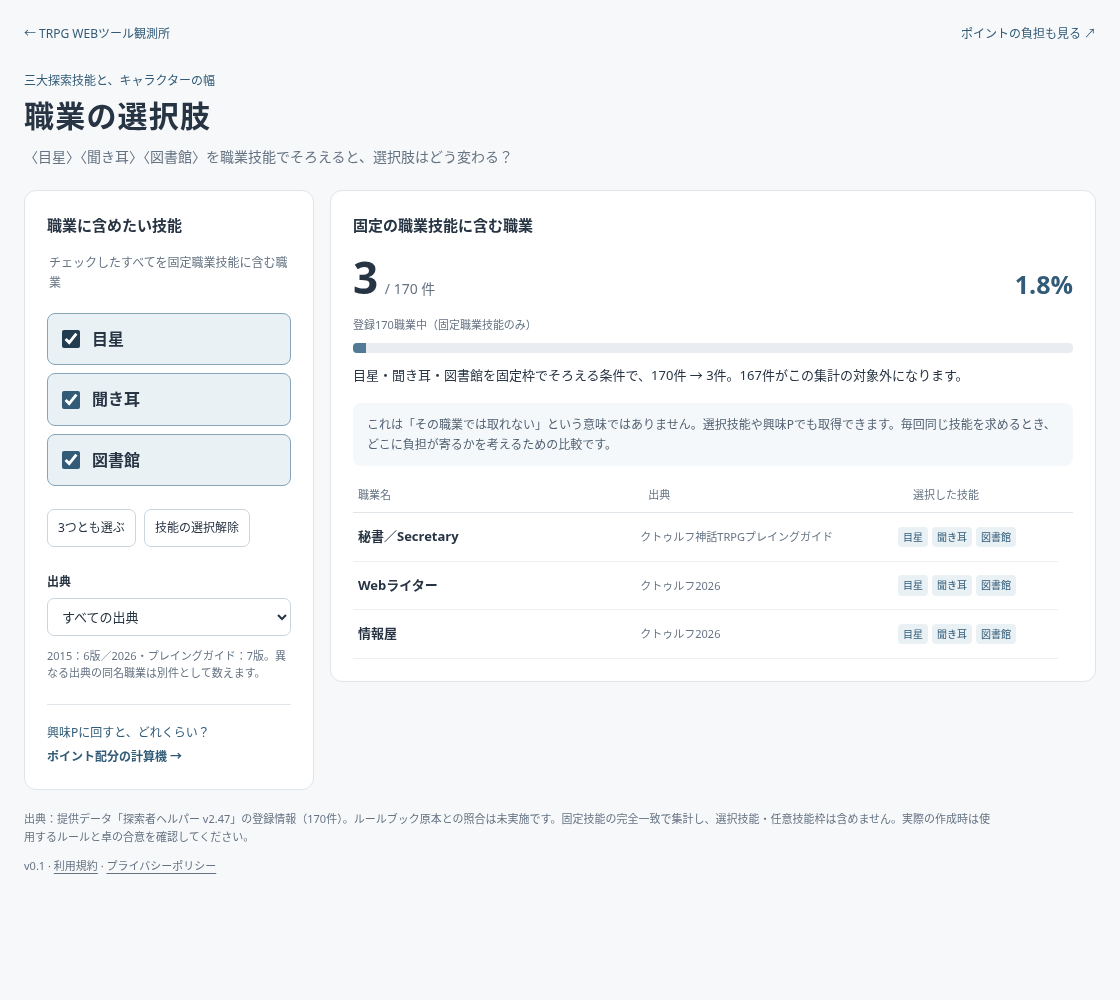
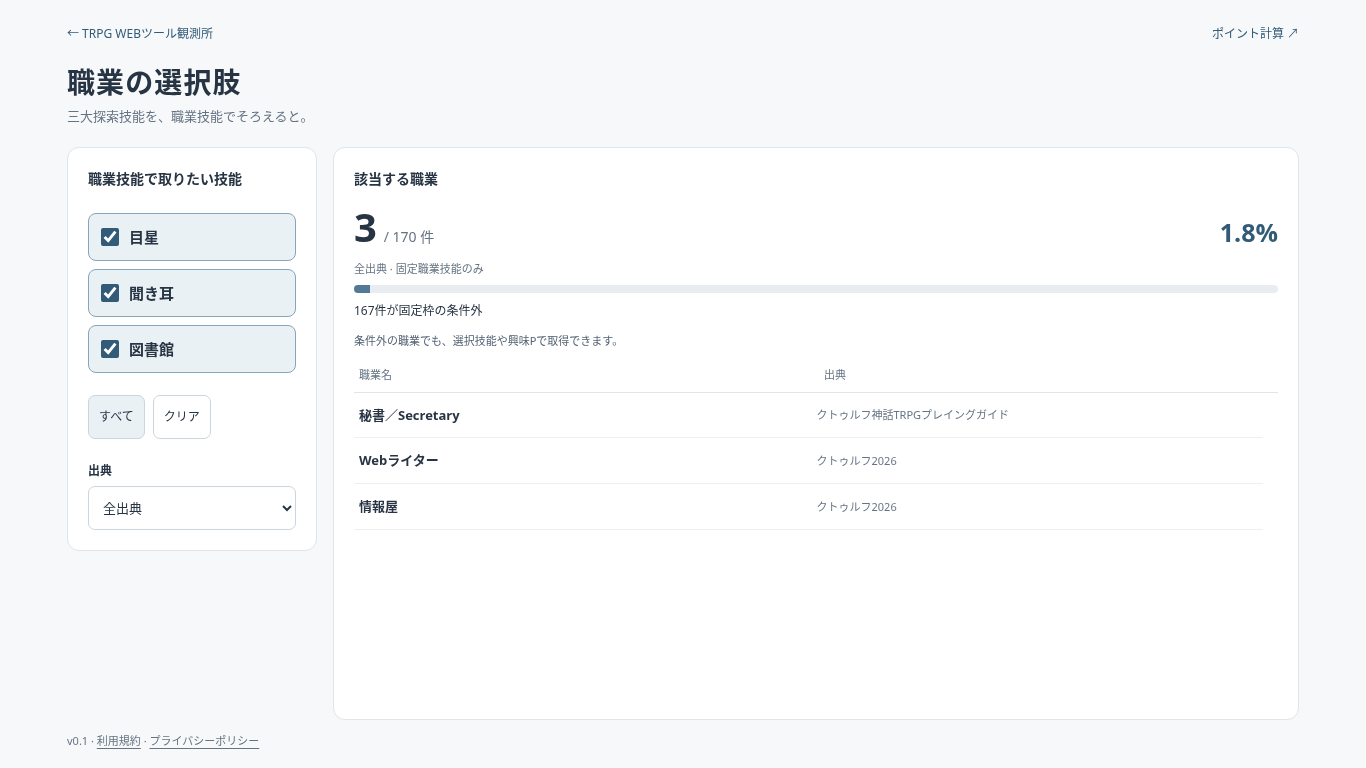
Simplify occupation filter labels and improve responsive layout

diff --git a/tools/three-skills-occupation-filter/style.css b/tools/three-skills-occupation-filter/style.css
@@ -1,3 +1,13 @@
-:root{color-scheme:light;--ink:#273443;--muted:#657383;--line:#dfe5e9;--accent:#315b77;--tint:#e9f1f5;--paper:#fff}
-*{box-sizing:border-box}body{margin:0;background:#f7f8fa;color:var(--ink);font:14px/1.65 system-ui,-apple-system,"Hiragino Kaku Gothic ProN","Noto Sans JP",sans-serif}main{max-width:1120px;margin:auto;padding:24px 24px 32px}a{color:var(--accent);text-underline-offset:3px}nav{display:flex;justify-content:space-between;gap:12px;font-size:12px}nav a{text-decoration:none}header{margin:27px 0 22px}.eyebrow{font-size:12px;color:var(--accent);margin:0 0 5px}h1{font-size:30px;letter-spacing:.04em;line-height:1.3;margin:0 0 10px}h2{font-size:15px;margin:0 0 16px}.lead{color:var(--muted);margin:0}.layout{display:grid;grid-template-columns:290px minmax(0,1fr);gap:16px;align-items:start}.panel{background:var(--paper);border:1px solid var(--line);border-radius:12px;padding:22px;min-width:0}fieldset{border:0;padding:0;margin:0}legend{font-size:12px;color:var(--muted);margin-bottom:12px}.skill{display:flex;align-items:center;gap:12px;padding:12px 14px;margin:8px 0;border:1px solid var(--line);border-radius:8px;font-size:16px;font-weight:650;cursor:pointer}.skill:has(input:checked){background:var(--tint);border-color:#85a5bb}.skill input{width:18px;height:18px;accent-color:var(--accent);margin:0}.actions{display:flex;gap:8px;flex-wrap:wrap;margin:15px 0 25px}button,select{font:inherit;color:var(--ink);background:#fff;border:1px solid #cbd5de;border-radius:7px;padding:8px 10px}button{cursor:pointer;font-size:12px}button:hover{background:var(--tint)}:focus-visible{outline:2px solid var(--accent);outline-offset:3px}.source-label{display:block;font-size:12px;font-weight:650;margin-bottom:6px}select{width:100%;min-width:0;font-size:13px}.small{font-size:11px;color:var(--muted);line-height:1.6}.calculator-link{display:block;border-top:1px solid var(--line);margin-top:22px;padding-top:18px;font-size:12px;text-decoration:none}.calculator-link span{display:block;font-weight:650;margin-top:4px}.count{display:flex;align-items:baseline;gap:8px;flex-wrap:wrap;margin:0}.count strong{font-size:44px;font-variant-numeric:tabular-nums;line-height:1.1;letter-spacing:-.03em}.count span{color:var(--muted)}.count b{margin-left:auto;font-size:25px;font-weight:550;color:var(--accent)}#scope-label{margin:10px 0}.ratio{height:10px;border-radius:4px;background:#e9edf1;overflow:hidden}#ratio-fill{height:100%;background:#527a96;width:0}#impact{font-size:13px;margin:12px 0 0}.context{font-size:12px;background:#f5f8fa;border-radius:8px;padding:12px 14px;margin:16px 0 20px;color:#536273}.list-header,.job{display:grid;grid-template-columns:minmax(0,1.1fr) minmax(0,1fr) 155px;gap:12px;align-items:center}.list-header{font-size:11px;color:var(--muted);padding:0 5px 8px;border-bottom:1px solid var(--line)}.job-list{max-height:460px;overflow:auto;scrollbar-gutter:stable}.job{padding:13px 5px;border-bottom:1px solid #edf0f2;font-size:13px}.job h3{margin:0;font-size:13px;font-weight:600;overflow-wrap:anywhere}.job-source{font-size:11px;color:var(--muted)}.tags{display:flex;flex-wrap:wrap;gap:4px}.tag{font-size:10px;border-radius:4px;padding:2px 5px;background:var(--tint);color:var(--accent)}.unselected{font-size:11px;color:var(--muted)}.empty{padding:30px 10px;font-size:13px}footer{margin-top:20px;font-size:11px;color:var(--muted);max-width:970px}footer a{color:inherit}#error{color:#963c35}
-@media(max-width:760px){main{padding:16px 14px 26px}header{margin:22px 0 18px}h1{font-size:26px}.layout{grid-template-columns:1fr}.panel{padding:18px}fieldset{display:flex;flex-wrap:wrap;gap:6px}legend{width:100%;margin-bottom:6px}.skill{font-size:14px;gap:7px;margin:0;padding:10px}.actions{margin:12px 0 18px}.calculator-link{margin-top:14px;padding-top:12px}.list-header{display:none}.job{grid-template-columns:1fr auto;gap:4px 10px;padding:12px 3px}.job-source{grid-row:2;grid-column:1/-1}.tags{grid-column:2;grid-row:1}.count strong{font-size:38px}.count b{font-size:23px}.job-list{max-height:440px}nav{font-size:11px}}
+:root{color-scheme:light;--ink:#273443;--muted:#657383;--line:#dfe5e9;--accent:#315b77;--tint:#e9f1f5}
+*{box-sizing:border-box}body{margin:0;background:#f7f8fa;color:var(--ink);font:14px/1.6 system-ui,-apple-system,"Hiragino Kaku Gothic ProN","Noto Sans JP",sans-serif}
+main{max-width:1280px;margin:auto;padding:18px 24px}a{color:var(--accent);text-underline-offset:3px}nav{display:flex;justify-content:space-between;gap:12px;font-size:12px}nav a{display:inline-flex;align-items:center;min-height:32px;text-decoration:none}header{margin:14px 0 20px}h1{font-size:28px;letter-spacing:.04em;line-height:1.3;margin:0 0 6px}h2{font-size:14px;margin:0 0 14px}.lead{color:var(--muted);margin:0;font-size:13px}
+.layout{display:grid;grid-template-columns:250px minmax(0,1fr);gap:16px;align-items:start}.panel{background:#fff;border:1px solid var(--line);border-radius:12px;padding:20px;min-width:0}fieldset{border:0;padding:0;margin:0;min-width:0}.sr-only{position:absolute;width:1px;height:1px;padding:0;margin:-1px;overflow:hidden;clip:rect(0,0,0,0);white-space:nowrap;border:0}
+.skill{display:flex;align-items:center;gap:10px;min-height:48px;padding:10px 12px;margin:8px 0;border:1px solid var(--line);border-radius:8px;font-size:15px;font-weight:650;cursor:pointer}.skill:has(input:checked){background:var(--tint);border-color:#85a5bb}.skill input{width:18px;height:18px;accent-color:var(--accent);margin:0;flex-shrink:0}.actions{display:flex;gap:8px;margin:14px 0 22px}
+button,select{font:inherit;color:var(--ink);background:#fff;border:1px solid #cbd5de;border-radius:7px;min-height:44px;padding:8px 10px}button{cursor:pointer;font-size:12px}button:hover{background:var(--tint)}:focus-visible{outline:2px solid var(--accent);outline-offset:3px}.source-label{display:block;font-size:12px;font-weight:650;margin-bottom:6px}select{width:100%;min-width:0;font-size:13px}.source-control{min-width:0}.small{font-size:11px;color:var(--muted);line-height:1.6}
+.count{display:flex;align-items:baseline;gap:8px;flex-wrap:wrap;margin:0}.count strong{font-size:40px;font-variant-numeric:tabular-nums;line-height:1.1;letter-spacing:-.03em}.count span{color:var(--muted)}.count b{margin-left:auto;font-size:25px;font-weight:550;color:var(--accent)}#scope-label{margin:8px 0}.ratio{height:8px;border-radius:4px;background:#e9edf1;overflow:hidden}#ratio-fill{height:100%;background:#527a96;width:0}#impact{font-size:12px;margin:8px 0 0}#impact:empty{display:none}.context{padding:0;margin:12px 0 16px;font-size:11px;color:#536273}
+.list-header,.job{display:grid;grid-template-columns:minmax(0,1fr) minmax(0,1fr);gap:16px;align-items:center}.list-header{flex-shrink:0;font-size:11px;color:var(--muted);padding:0 5px 8px;border-bottom:1px solid var(--line)}.job-list{max-height:460px;overflow:auto;scrollbar-gutter:stable}.job{padding:12px 5px;border-bottom:1px solid #edf0f2}.job h3{margin:0;font-size:13px;font-weight:600;overflow-wrap:anywhere}.job-source{font-size:11px;color:var(--muted);overflow-wrap:anywhere}.empty{padding:24px 8px;font-size:13px}
+footer{display:flex;justify-content:space-between;align-items:start;gap:16px;margin-top:12px;font-size:11px;color:var(--muted)}footer p{margin:0}footer details p{max-width:780px;margin-top:8px}footer summary{cursor:pointer;min-height:28px}footer a{color:inherit}#error{color:#963c35}
+/* Desktop: fixed controls and summary, with the list filling the remaining screen height. */
+@media(min-width:900px) and (min-height:600px){main{height:100svh;display:grid;grid-template-rows:auto auto minmax(0,1fr) auto}.layout{min-height:0;align-items:stretch}.filters{align-self:start}.results{min-height:0;display:flex;flex-direction:column}.results>:not(.job-list){flex-shrink:0}.job-list{min-height:0;max-height:none;flex:1}}
+/* Phones/tablets: compact horizontal controls and a single native page scroll. */
+@media(max-width:899px){main{max-width:760px;padding:10px 14px 20px}nav{font-size:11px}nav a{min-height:36px}header{margin:10px 0 14px}h1{font-size:24px}.lead{font-size:12px}.layout{grid-template-columns:1fr;gap:12px}.panel{padding:14px}.filters{display:grid;grid-template-columns:1fr 1fr;gap:10px 8px}.filters h2{grid-column:1/-1;margin:0;font-size:13px}fieldset{grid-column:1/-1;display:grid;grid-template-columns:repeat(3,minmax(0,1fr));gap:8px}.skill{justify-content:center;gap:6px;margin:0;padding:10px 4px;min-height:46px;font-size:14px;white-space:nowrap}.actions{margin:0;gap:6px}.actions button{flex:1;padding:8px 4px}.source-control{display:flex;align-items:stretch}.source-label{position:absolute;width:1px;height:1px;overflow:hidden;clip:rect(0,0,0,0);white-space:nowrap}select{font-size:16px;padding:8px}.results h2{margin-bottom:10px}.count strong{font-size:36px}.count b{font-size:23px}.context{margin:10px 0 12px}.list-header{display:none}.job-list{max-height:none;overflow:visible;scrollbar-gutter:auto}.job{grid-template-columns:1fr;gap:3px;padding:12px 2px}.job h3{font-size:14px}footer{flex-wrap:wrap;gap:6px 14px}}

diff --git a/tools/three-skills-occupation-filter/index.html b/tools/three-skills-occupation-filter/index.html
@@ -13,49 +13,47 @@
 </head>
 <body>
 <main>
-  <nav><a href="../../">← TRPG WEBツール観測所</a><a href="../trpg-three-skills-calculator/">ポイントの負担も見る ↗</a></nav>
+  <nav><a href="../../">← TRPG WEBツール観測所</a><a href="../trpg-three-skills-calculator/">ポイント計算 ↗</a></nav>
   <header>
-    <p class="eyebrow">三大探索技能と、キャラクターの幅</p>
     <h1>職業の選択肢</h1>
-    <p class="lead">〈目星〉〈聞き耳〉〈図書館〉を職業技能でそろえると、選択肢はどう変わる？</p>
+    <p class="lead">三大探索技能を、職業技能でそろえると。</p>
   </header>
   <div class="layout">
     <section class="panel filters" aria-labelledby="filter-title">
-      <h2 id="filter-title">職業に含めたい技能</h2>
+      <h2 id="filter-title">職業技能で取りたい技能</h2>
       <fieldset>
-        <legend>チェックしたすべてを固定職業技能に含む職業</legend>
+        <legend class="sr-only">選んだすべての技能を固定職業技能に含む職業を表示</legend>
         <label class="skill"><input type="checkbox" value="目星">目星</label>
         <label class="skill"><input type="checkbox" value="聞き耳">聞き耳</label>
         <label class="skill"><input type="checkbox" value="図書館">図書館</label>
       </fieldset>
-      <div class="actions"><button type="button" id="select-all">3つとも選ぶ</button><button type="button" id="clear">技能の選択解除</button></div>
+      <div class="actions"><button type="button" id="select-all" aria-label="3つの技能をすべて選ぶ">すべて</button><button type="button" id="clear">クリア</button></div>
+      <div class="source-control">
       <label class="source-label" for="source">出典</label>
       <select id="source">
-        <option value="all">すべての出典</option>
-        <option>クトゥルフ2015</option>
-        <option>クトゥルフ2026</option>
-        <option value="クトゥルフ神話TRPGプレイングガイド">プレイングガイド</option>
+        <option value="all">全出典</option>
+        <option value="クトゥルフ2015">2015 · 6版</option>
+        <option value="クトゥルフ2026">2026 · 7版</option>
+        <option value="クトゥルフ神話TRPGプレイングガイド">ガイド · 7版</option>
       </select>
-      <p class="small">2015：6版／2026・プレイングガイド：7版。異なる出典の同名職業は別件として数えます。</p>
-      <a class="calculator-link" href="../trpg-three-skills-calculator/">興味Pに回すと、どれくらい？<span>ポイント配分の計算機 →</span></a>
+      </div>
     </section>
     <section class="panel results" aria-labelledby="result-title">
-      <h2 id="result-title">固定の職業技能に含む職業</h2>
+      <h2 id="result-title">該当する職業</h2>
       <div id="summary" role="status" aria-live="polite" aria-atomic="true">
         <p class="count"><strong id="count">—</strong><span id="denominator"> / — 件</span><b id="percent">—</b></p>
         <p id="scope-label" class="small">職業データを読み込んでいます…</p>
         <div class="ratio" aria-hidden="true"><div id="ratio-fill"></div></div>
         <p id="impact"></p>
       </div>
-      <p class="context">これは「その職業では取れない」という意味ではありません。選択技能や興味Pでも取得できます。毎回同じ技能を求めるとき、どこに負担が寄るかを考えるための比較です。</p>
-      <div class="list-header" aria-hidden="true"><span>職業名</span><span>出典</span><span>選択した技能</span></div>
+      <p class="context">条件外の職業でも、選択技能や興味Pで取得できます。</p>
+      <div class="list-header" aria-hidden="true"><span>職業名</span><span>出典</span></div>
       <div class="job-list" id="job-list" tabindex="0" role="region" aria-label="該当職業一覧"></div>
       <p id="error" role="alert" hidden></p>
       <noscript><p>職業の絞り込みにはJavaScriptを有効にしてください。</p></noscript>
     </section>
   </div>
   <footer>
-    <p>出典：提供データ「探索者ヘルパー v2.47」の登録情報（170件）。ルールブック原本との照合は未実施です。固定技能の完全一致で集計し、選択技能・任意技能枠は含めません。実際の作成時は使用するルールと卓の合意を確認してください。</p>
     <p>v0.1 · <a href="../../terms.html">利用規約</a> · <a href="../../privacy.html">プライバシーポリシー</a></p>
   </footer>
 </main>

diff --git a/tools/three-skills-occupation-filter/app.js b/tools/three-skills-occupation-filter/app.js
@@ -12,11 +12,11 @@ function render() {
   $('percent').textContent = `${result.percent.toFixed(1)}%`;
   $('ratio-fill').style.width = `${result.percent}%`;
   $('scope-label').textContent = $('source').value === 'all'
-    ? '登録170職業中（固定職業技能のみ）'
-    : `${$('source').selectedOptions[0].textContent}の${result.denominator}職業中 · 全出典では ${result.overallCount} / 170件`;
+    ? '全出典 · 固定職業技能のみ'
+    : `固定職業技能のみ · 全出典では ${result.overallCount} / 170件`;
   $('impact').textContent = selected.length
-    ? `${selected.join('・')}を固定枠でそろえる条件で、${result.denominator}件 → ${result.count}件。${result.denominator - result.count}件がこの集計の対象外になります。`
-    : '技能の条件なし。対象の出典に登録されたすべての職業を表示しています。';
+    ? `${result.denominator - result.count}件が固定枠の条件外`
+    : '';
 
   const fragment = document.createDocumentFragment();
   for (const job of result.matches) {
@@ -28,19 +28,7 @@ function render() {
     const source = document.createElement('span');
     source.className = 'job-source';
     source.textContent = job.source;
-    const tags = document.createElement('span');
-    tags.className = 'tags';
-    for (const skill of selected) {
-      const tag = document.createElement('span');
-      tag.className = 'tag';
-      tag.textContent = skill;
-      tags.append(tag);
-    }
-    if (!selected.length) {
-      tags.classList.add('unselected');
-      tags.textContent = '条件なし';
-    }
-    row.append(name, source, tags);
+    row.append(name, source);
     fragment.append(row);
   }
   if (!result.count) {
